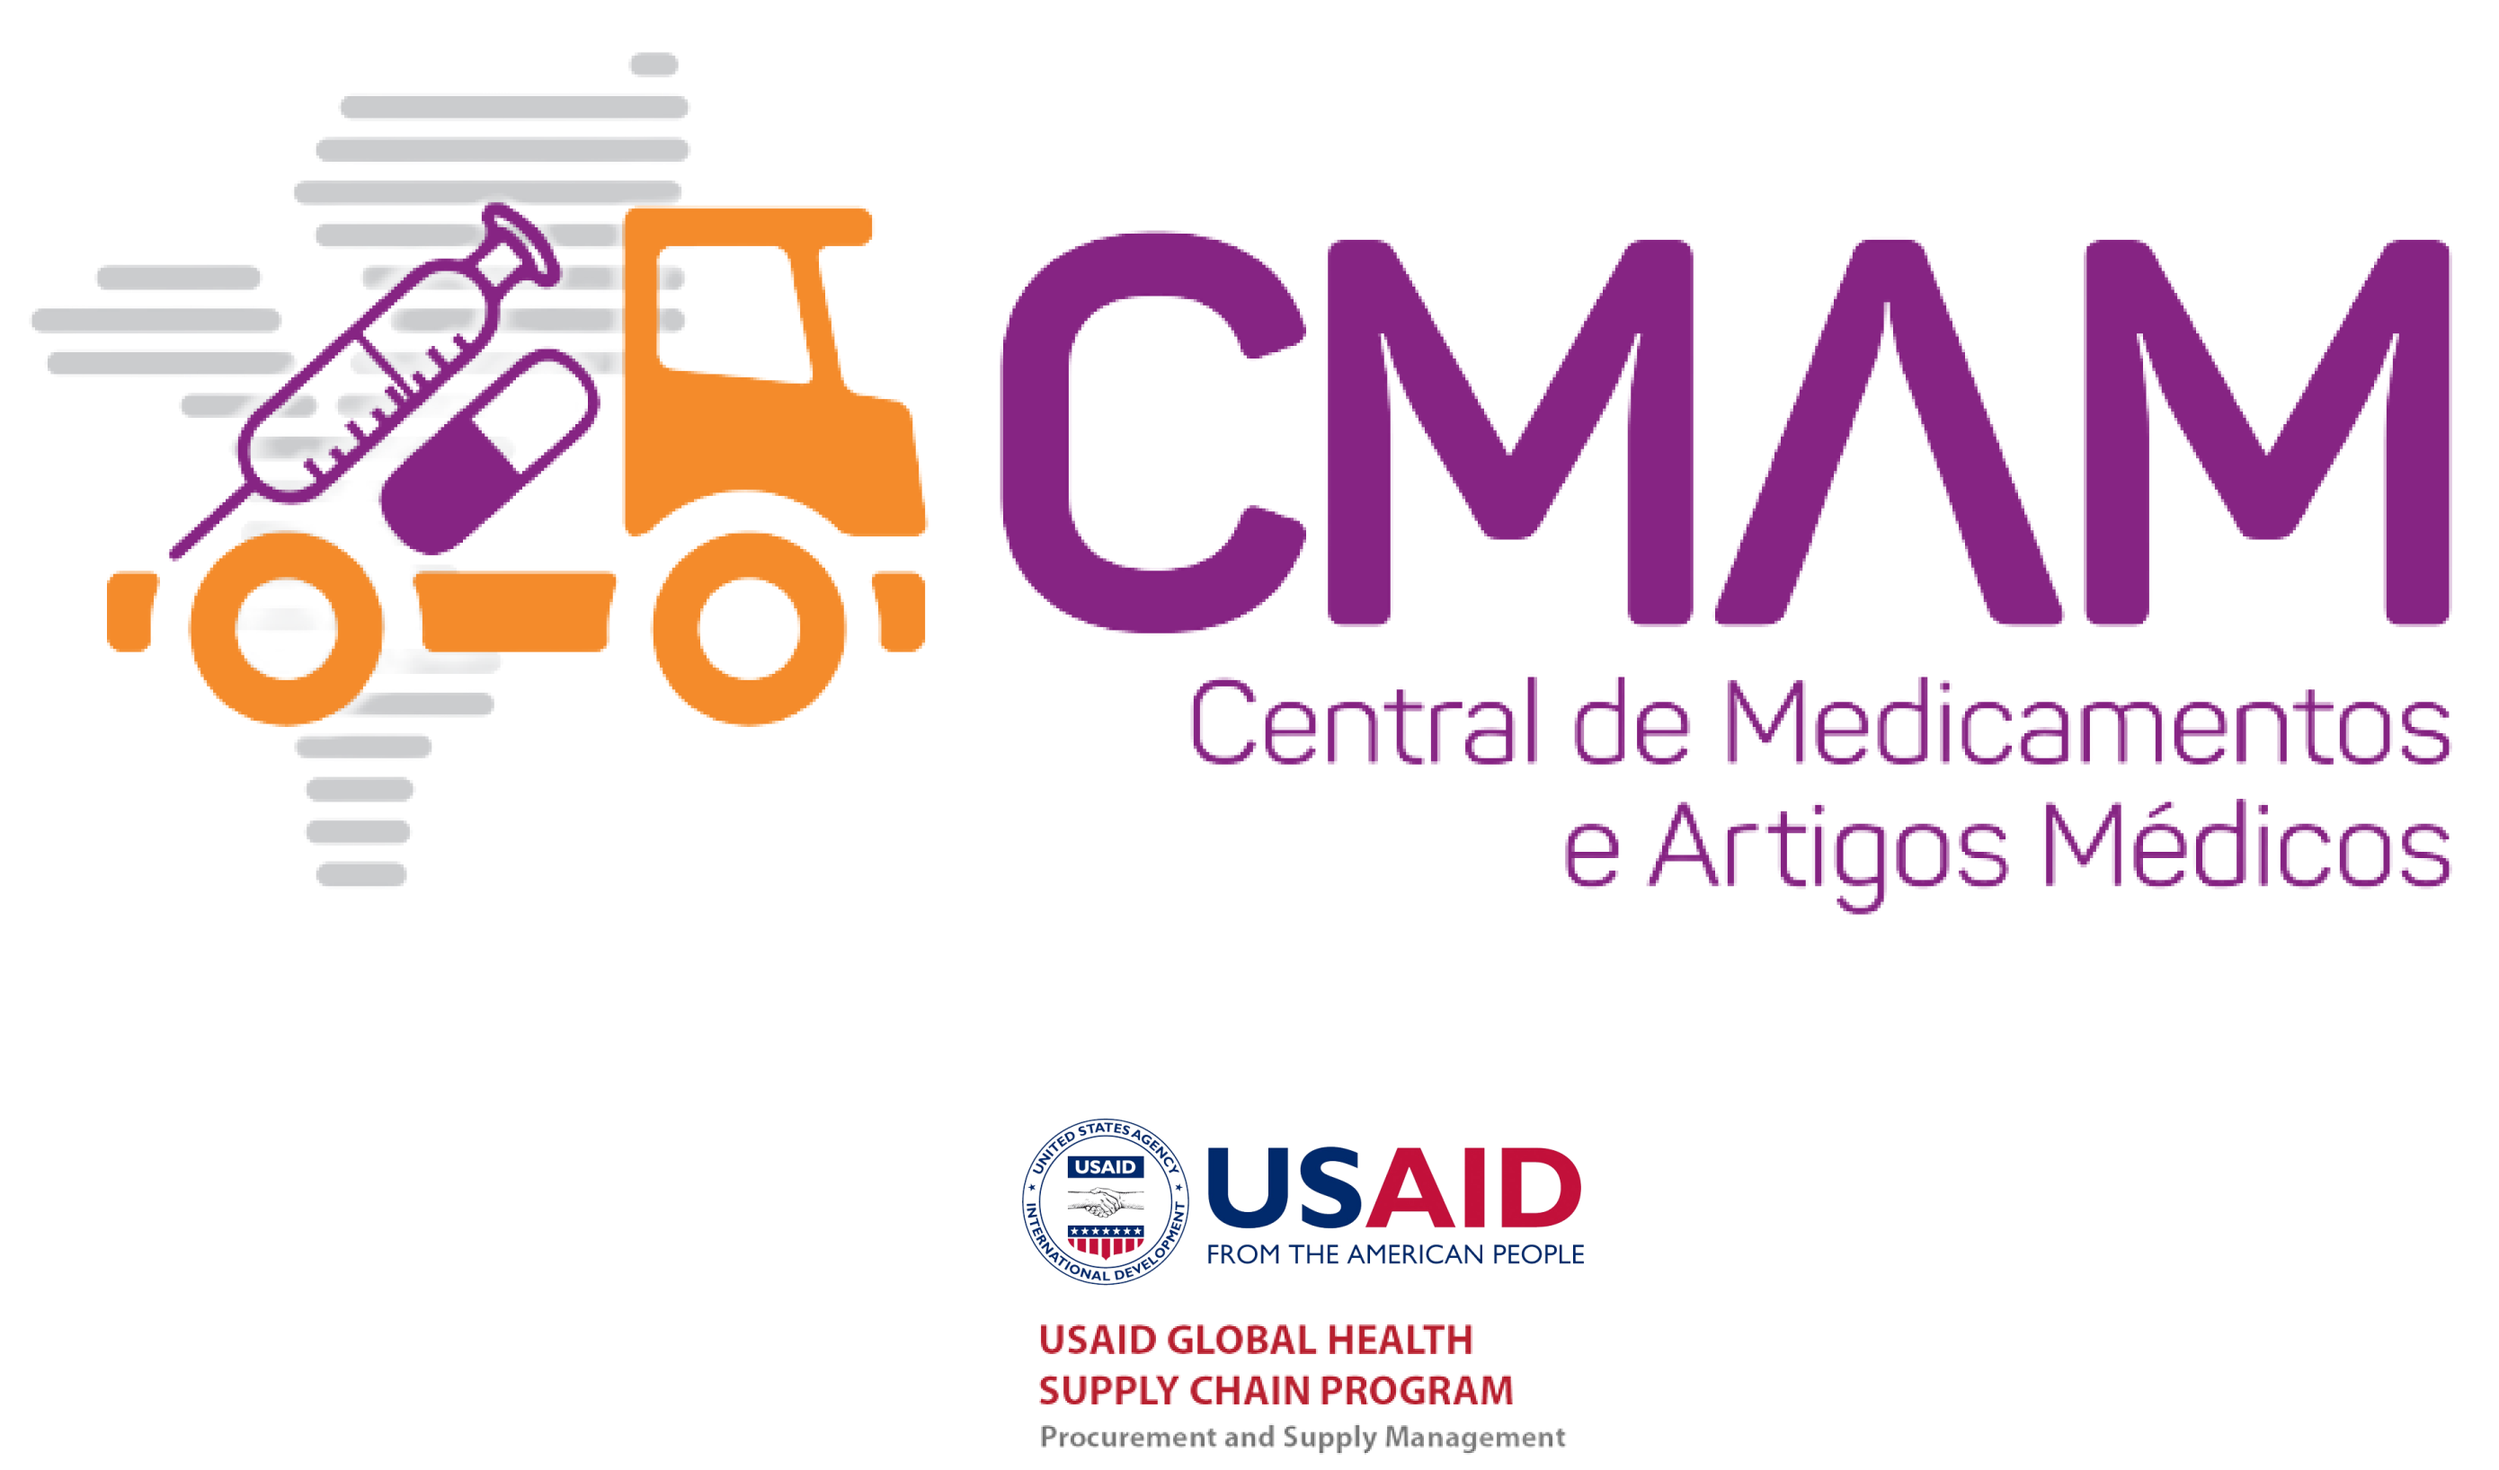
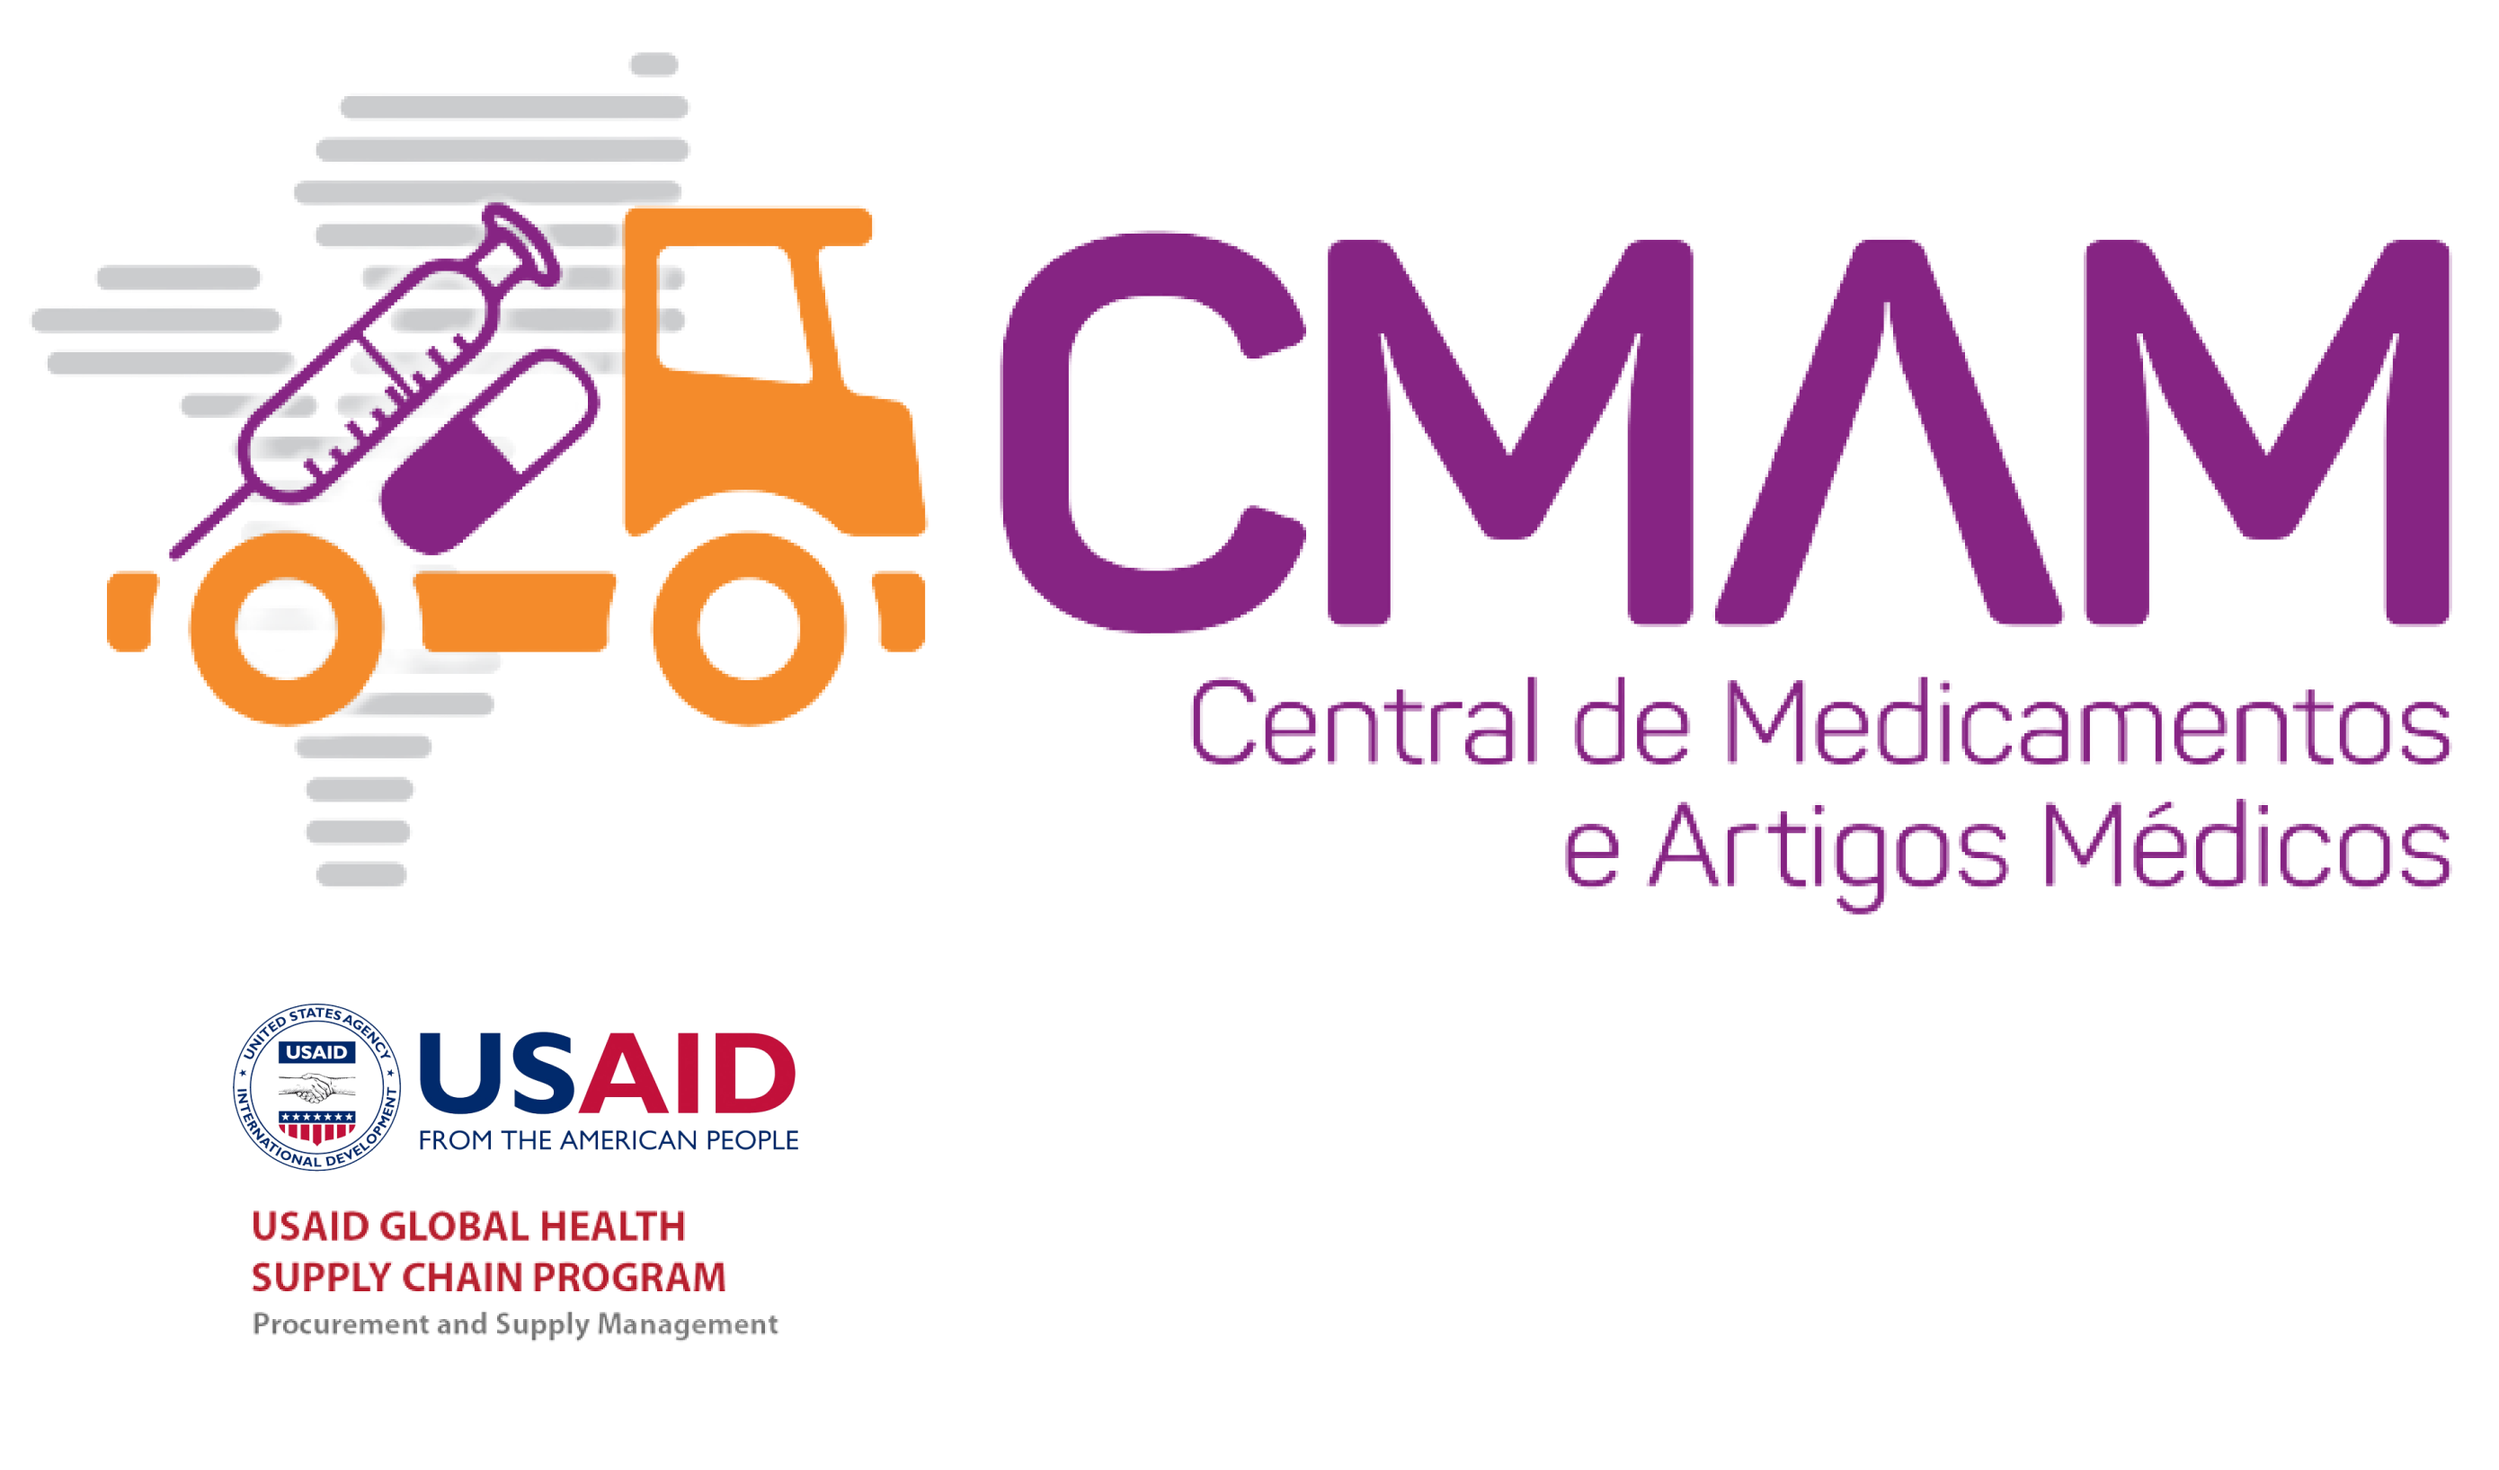
[boyu yaun] #557 change login page log and title

Changed region(s): [[0.0928, 0.6858, 0.3403, 0.904], [0.4022, 0.7482, 0.6496, 0.8729], [0.4022, 0.904, 0.6187, 0.9976]]

diff --git a/src/openlmis-login/login-form.html b/src/openlmis-login/login-form.html
@@ -1,0 +1,40 @@
+<div class="modal auth-modal" tabindex="-1" role="dialog" aria-hidden="true">
+    <div class="modal-dialog">
+        <div class="modal-content">
+            <div class="modal-header">
+                <h1>{{'openlmisLogin.appHeader' | message}}</h1>
+                <openlmis-locale class="locale-container"/>
+            </div>
+            <div class="modal-body">
+                <form ng-submit="vm.doLogin()">
+                    <div id="loginError" class="alert is-error" ng-if="vm.loginError">
+                        {{vm.loginError | message}}
+                    </div>
+                    <div class="form-group">
+                        <label for="login-username">{{'openlmisLogin.username' | message}}</label>
+                        <input id="login-username"
+                            ng-model="vm.username"
+                            type="text"
+                            required
+                            autofocus/>
+                    </div>
+                    <div class="form-group">
+                        <label for="login-password">{{'openlmisLogin.password' | message}}</label>
+                        <input ng-model="vm.password" type="password" id="login-password" required/>
+                    </div>
+                    <div class="button-group">
+                        <input id="login-button" type="submit" value="{{'openlmisLogin.signIn' | message}}"/>
+                        <a id="forgotPasswordLink" ui-sref="auth.forgotPassword">
+                            {{'openlmisLogin.forgotPassword' | message}}
+                        </a>
+                    </div>
+                </form>
+            </div>
+            <div class="modal-footer">
+                <a href="http://openlmis.org" target="_blank">
+                    {{'openlmisLogin.poweredBy' | message:({openlmis:'OpenLMIS'})}}
+                </a>
+            </div>
+        </div>
+    </div>
+</div>

diff --git a/src/openlmis-auth/_auth-model-diff.scss b/src/openlmis-auth/_auth-model-diff.scss
@@ -1,0 +1,68 @@
+$res-xs: 320px;
+$res-sm: 576px;
+
+.modal-body {
+  background-image: url("openlmis-auth/usaid-logo.png") !important;
+  background-size: 40% auto;
+  background-position: 2em 45%;
+  background-repeat: no-repeat;
+  @media screen and (max-width: $res-sm) {
+    background-size: 30% auto;
+  }
+
+  padding: 1em 1em 1em 50% !important;
+
+  & > .form-desc,
+  & > form > fieldset {
+    width: 100%;
+  }
+
+  & > form > .alert {
+    flex: initial;
+  }
+  & > form > .input-control{
+    width: 100%;
+  }
+  .form-group .input-control{
+    @media screen and (max-width: $res-sm) {
+      width: 100%;
+    }
+  }
+
+  .button-group {
+    @media screen and (max-width: $res-sm) {
+      overflow: hidden;
+      display: grid;
+    }
+    @media screen and (max-width: $res-xs) {
+      position: relative;
+      right: 0px;
+      bottom: 0px;
+    }
+  }
+}
+
+.modal-header {
+  align-items: center;
+  background-image: linear-gradient(to bottom, $white 30%, $light-gray 100%);
+  border-bottom: 1px solid $light-gray;
+  border-radius: $border-radius $border-radius 0 0;
+  display: flex;
+  padding: 0.5em 1em !important;
+  overflow: hidden;
+
+  & > h1 {
+    margin-right: auto;
+    word-break: normal !important;
+  }
+
+  button {
+    margin: 0px 1em;
+    min-width: 92px;
+    max-height: 40px;
+    @media screen and (max-width: $res-xs) {
+      display: flex;
+      min-width: 12px;
+    }
+  }
+}

diff --git a/src/openlmis-header/header-diff.scss b/src/openlmis-header/header-diff.scss
@@ -31,12 +31,11 @@ body > header {
 
   > .logo {
     display: block;
-    text-indent: -30000em;
     overflow: hidden;
     background-repeat: no-repeat;
     background-size: auto $font-size-openlmis-header-title;
     flex-grow: 1;
-    font-size: $font-size-openlmis-header-title;
+    font-size: 22px;
     height: $font-size-openlmis-header-title;
     @media screen and (max-width: $res-sm) {
       background-size: auto 24px;

diff --git a/src/openlmis-home/home-diff.scss b/src/openlmis-home/home-diff.scss
@@ -24,7 +24,8 @@
         height: 36px;
         text-align: left;
         font-size: 12px;
-        color: #777777;
+        font-weight: bold;
+        color: #000000;
     }
 
     .system-notification-list {
